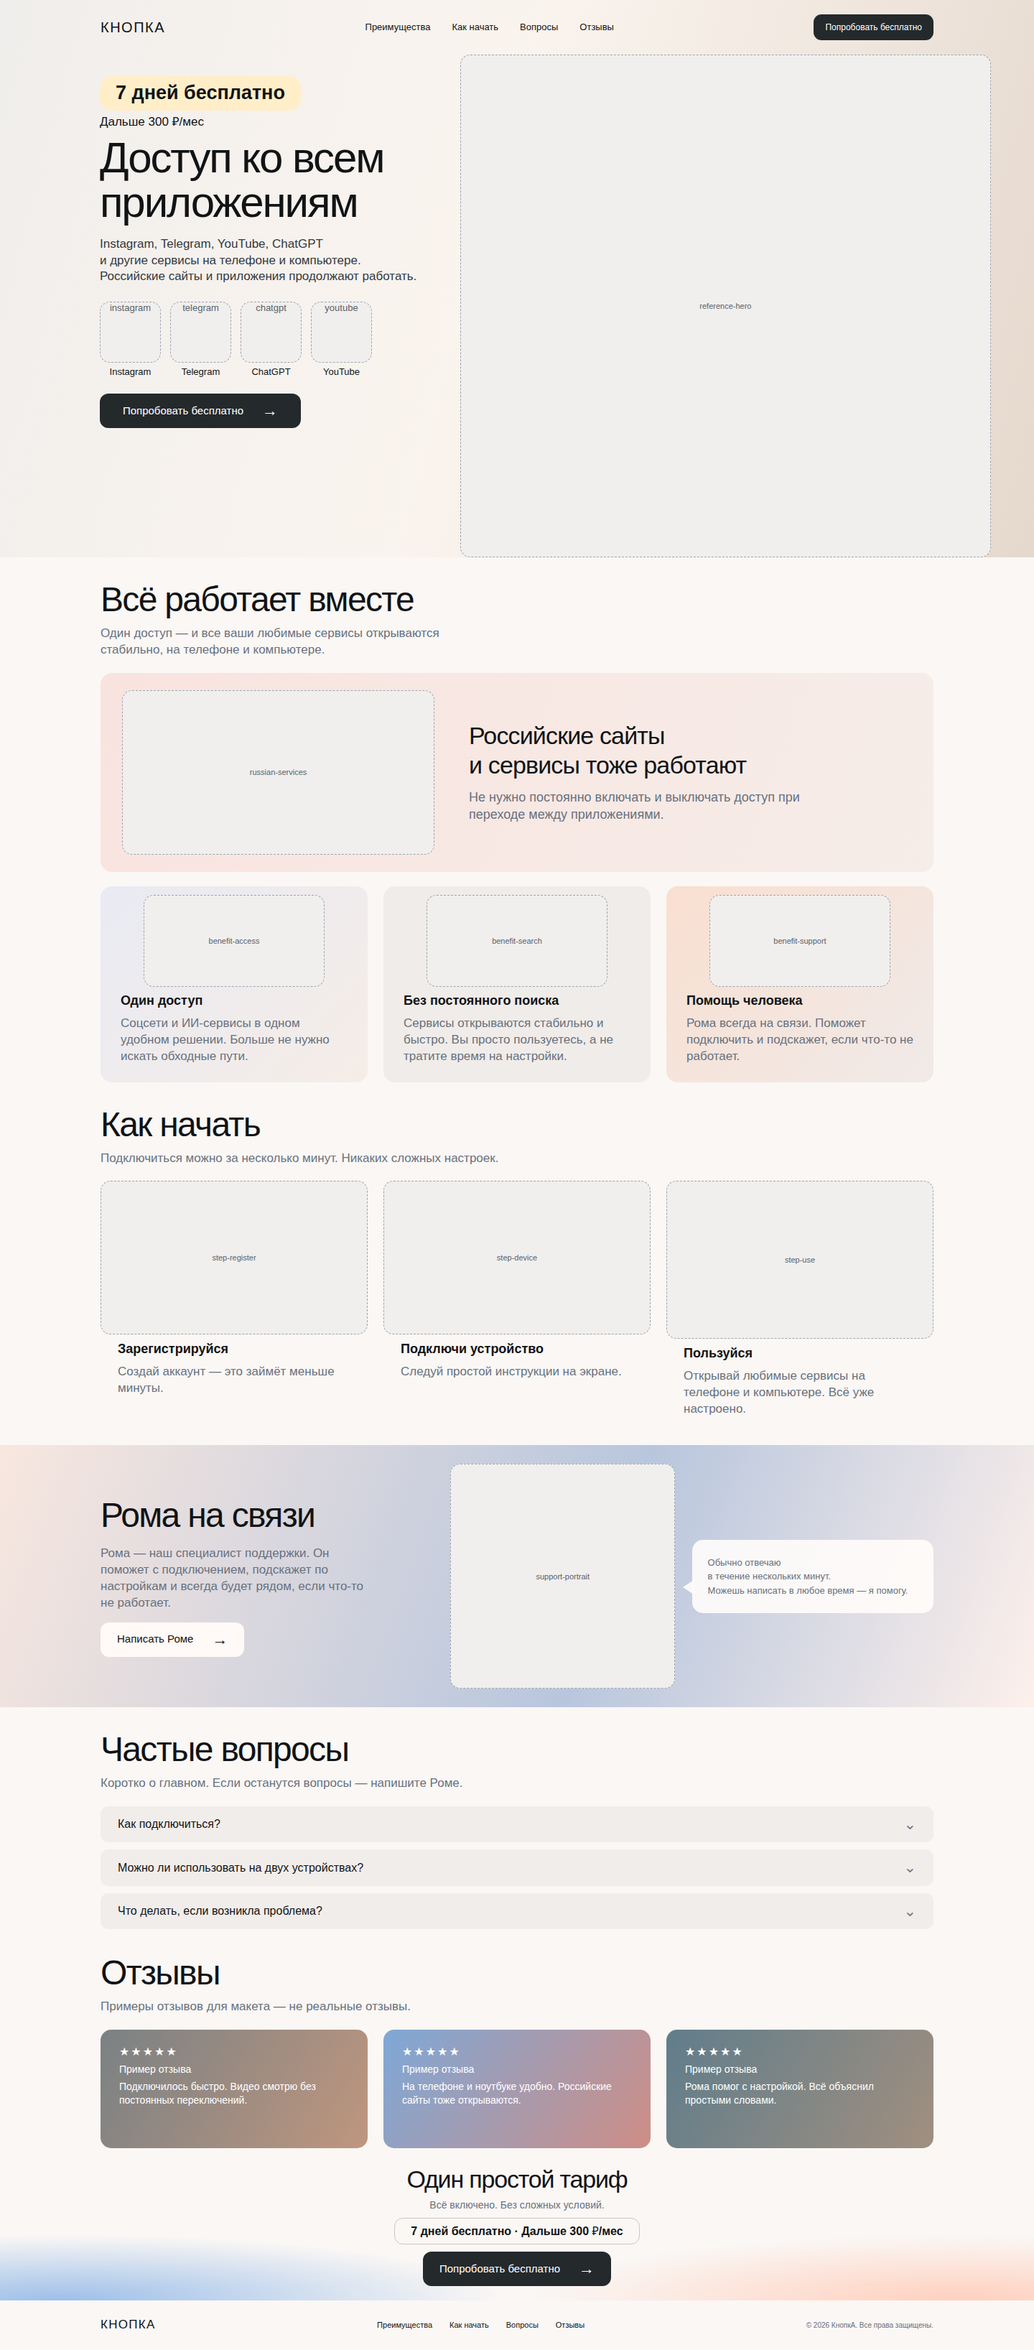
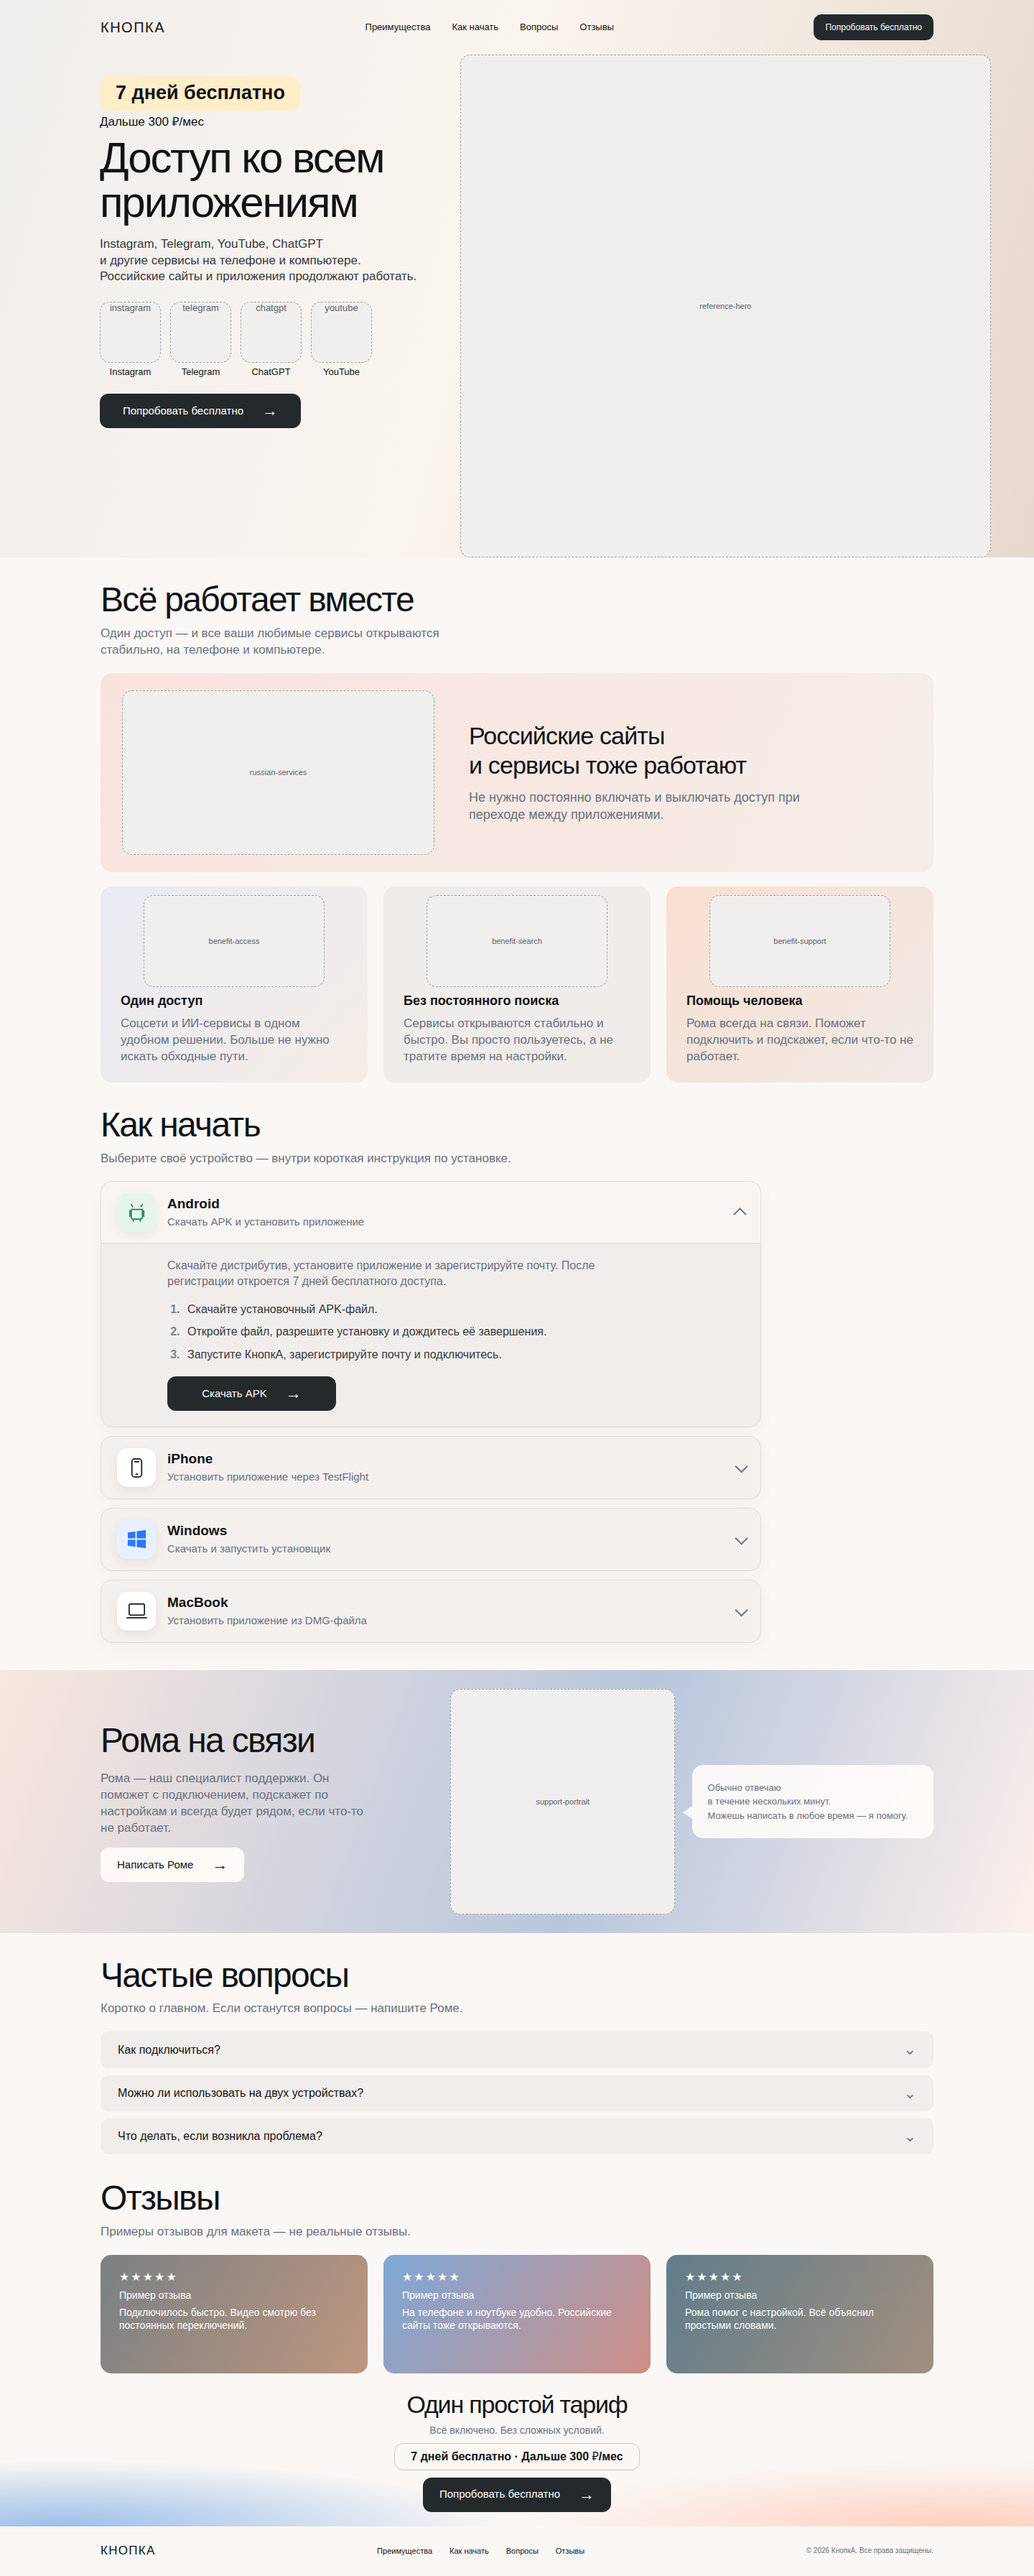
Redesign template setup section

diff --git a/Design2.0/version-001-mvp/site/template/index.html b/Design2.0/version-001-mvp/site/template/index.html
@@ -41,12 +41,82 @@
       </div>
     </section>
     <section class="section shell" id="start" aria-labelledby="start-title">
-      <h2 id="start-title">Как начать</h2><p class="section-intro">Подключиться можно за несколько минут. Никаких сложных настроек.</p>
-      <ol class="steps grid-three">
-        <li><span class="media-slot " role="img" aria-label="Место для изображения step-register" style="--slot-ratio:218/125">step-register</span><h3>Зарегистрируйся</h3><p>Создай аккаунт — это займёт меньше минуты.</p></li>
-        <li><span class="media-slot " role="img" aria-label="Место для изображения step-device" style="--slot-ratio:218/125">step-device</span><h3>Подключи устройство</h3><p>Следуй простой инструкции на экране.</p></li>
-        <li><span class="media-slot " role="img" aria-label="Место для изображения step-use" style="--slot-ratio:212/125">step-use</span><h3>Пользуйся</h3><p>Открывай любимые сервисы на телефоне и компьютере. Всё уже настроено.</p></li>
-      </ol>
+      <h2 id="start-title">Как начать</h2>
+      <p class="section-intro">Выберите своё устройство — внутри короткая инструкция по установке.</p>
+      <div class="platform-accordions">
+        <details class="platform-accordion platform-android">
+          <summary>
+            <span class="platform-mark" aria-hidden="true">
+              <svg viewBox="0 0 32 32"><path d="m10 8-2-3m14 3 2-3M8 12h16v11a3 3 0 0 1-3 3H11a3 3 0 0 1-3-3V12Zm-2 2v8m20-8v8M11 26v3m10-3v3"/></svg>
+            </span>
+            <span class="platform-heading"><strong>Android</strong><span>Скачать APK и установить приложение</span></span>
+          </summary>
+          <div class="platform-content">
+            <p>Скачайте дистрибутив, установите приложение и зарегистрируйте почту. После регистрации откроется 7 дней бесплатного доступа.</p>
+            <ol>
+              <li>Скачайте установочный APK-файл.</li>
+              <li>Откройте файл, разрешите установку и дождитесь её завершения.</li>
+              <li>Запустите КнопкА, зарегистрируйте почту и подключитесь.</li>
+            </ol>
+            <button type="button" class="button platform-download">Скачать APK <span aria-hidden="true">→</span></button>
+          </div>
+        </details>
+
+        <details class="platform-accordion platform-iphone">
+          <summary>
+            <span class="platform-mark" aria-hidden="true">
+              <svg viewBox="0 0 32 32"><rect x="9" y="3" width="14" height="26" rx="4"/><path d="M13 7h6M15 25h2"/></svg>
+            </span>
+            <span class="platform-heading"><strong>iPhone</strong><span>Установить приложение через TestFlight</span></span>
+          </summary>
+          <div class="platform-content">
+            <p>Установите КнопкА через TestFlight, зарегистрируйте почту и получите 7 дней бесплатного доступа.</p>
+            <ol>
+              <li>Откройте ссылку на установку. Если TestFlight ещё нет на iPhone, сначала установите его.</li>
+              <li>В TestFlight нажмите «Установить» и дождитесь завершения.</li>
+              <li>Откройте КнопкА, зарегистрируйте почту и подключитесь.</li>
+            </ol>
+            <button type="button" class="button platform-download">Открыть TestFlight <span aria-hidden="true">→</span></button>
+          </div>
+        </details>
+
+        <details class="platform-accordion platform-windows">
+          <summary>
+            <span class="platform-mark filled" aria-hidden="true">
+              <svg viewBox="0 0 32 32"><path d="M3 5.5 14 4v10H3V5.5ZM16 3.7 29 2v12H16V3.7ZM3 16h11v10L3 24.5V16Zm13 0h13v12l-13-1.7V16Z"/></svg>
+            </span>
+            <span class="platform-heading"><strong>Windows</strong><span>Скачать и запустить установщик</span></span>
+          </summary>
+          <div class="platform-content">
+            <p>Скачайте установщик, завершите установку и зарегистрируйтесь в приложении. Первые 7 дней — бесплатно.</p>
+            <ol>
+              <li>Скачайте и запустите установочный EXE-файл. Разрешите Windows его выполнение.</li>
+              <li>Завершите установку и откройте ярлык КнопкА на рабочем столе.</li>
+              <li>Зарегистрируйте почту и подключитесь.</li>
+            </ol>
+            <button type="button" class="button platform-download">Скачать для Windows <span aria-hidden="true">→</span></button>
+          </div>
+        </details>
+
+        <details class="platform-accordion platform-macbook">
+          <summary>
+            <span class="platform-mark" aria-hidden="true">
+              <svg viewBox="0 0 32 32"><rect x="5" y="5" width="22" height="16" rx="2"/><path d="M2 25h28M11 25h10"/></svg>
+            </span>
+            <span class="platform-heading"><strong>MacBook</strong><span>Установить приложение из DMG-файла</span></span>
+          </summary>
+          <div class="platform-content">
+            <p>Скачайте DMG-файл, перенесите КнопкА в «Программы» и зарегистрируйте почту, чтобы получить 7 дней бесплатного доступа.</p>
+            <ol>
+              <li>Скачайте и откройте установочный DMG-файл.</li>
+              <li>Перетащите КнопкА в папку «Программы».</li>
+              <li>Откройте приложение и разрешите macOS установку профиля и запуск расширения.</li>
+              <li>Зарегистрируйте почту и подключитесь.</li>
+            </ol>
+            <button type="button" class="button platform-download">Скачать для MacBook <span aria-hidden="true">→</span></button>
+          </div>
+        </details>
+      </div>
     </section>
     <section class="support" aria-labelledby="support-title"><div class="shell support-grid">
       <div class="support-copy"><h2 id="support-title">Рома на связи</h2><p>Рома — наш специалист поддержки. Он поможет с подключением, подскажет по настройкам и всегда будет рядом, если что-то не работает.</p><button type="button" class="button light">Написать Роме <span aria-hidden="true">→</span></button></div>

diff --git a/Design2.0/version-001-mvp/site/template/styles.css b/Design2.0/version-001-mvp/site/template/styles.css
@@ -2,5 +2,27 @@
 @import url('../source/styles.css');
 .media-slot{display:grid;place-items:center;aspect-ratio:var(--slot-ratio);max-width:100%;border:1px dashed #9da5b0;border-radius:14px;color:#59616c;background:#f0efed;font:11px/1.3 Arial,sans-serif;text-align:center;overflow-wrap:anywhere}
 .services .media-slot{width:100%}.russian-card>.media-slot{width:92%}.benefits .media-slot{width:80%;height:128px;margin:0 auto 9px}.steps .media-slot{width:100%}.media-slot.portrait{width:100%}.media-slot.hero-image{height:700px}
+.platform-accordions{display:grid;gap:12px;max-width:920px}
+.platform-accordion{margin:0;border:1px solid #e1dcda;border-radius:16px;background:#f1edeb;overflow:hidden;box-shadow:0 8px 22px rgb(50 43 39 / 4%)}
+.platform-accordion summary{min-height:86px;padding:14px 22px;justify-content:flex-start;background:#f4f0ee}
+.platform-accordion summary::after{content:"";width:11px;height:11px;margin-left:auto;border-right:2px solid #68717e;border-bottom:2px solid #68717e;transform:rotate(45deg) translateY(-3px);transition:transform .18s ease}
+.platform-accordion[open] summary::after{content:"";transform:rotate(225deg) translate(-2px,-2px)}
+.platform-accordion[open] summary{border-bottom:1px solid #e1dcda;background:#f8f5f3}
+.platform-mark{display:grid;place-items:center;flex:0 0 54px;width:54px;height:54px;border-radius:15px;background:#fff;color:#171a1d;box-shadow:0 5px 14px rgb(50 43 39 / 7%)}
+.platform-mark svg{width:31px;height:31px;fill:none;stroke:currentColor;stroke-width:1.8;stroke-linecap:round;stroke-linejoin:round}
+.platform-mark.filled svg{fill:currentColor;stroke:none}
+.platform-android .platform-mark{color:#208455;background:#e6f5ec}
+.platform-iphone .platform-mark,.platform-macbook .platform-mark{background:#fff}
+.platform-windows .platform-mark{color:#2878ff;background:#e8f0ff}
+.platform-heading{display:grid;gap:3px;min-width:0}
+.platform-heading strong{font-size:19px;line-height:1.2}
+.platform-heading span{color:var(--muted);font-size:15px}
+.platform-content{padding:20px 22px 22px 92px}
+.platform-content>p{max-width:690px;padding:0;font-size:16px}
+.platform-content ol{display:grid;gap:10px;margin:17px 0 20px;padding-left:22px;max-width:720px;color:#343940}
+.platform-content li{padding-left:6px}
+.platform-content li::marker{font-weight:700;color:#7b838d}
+.platform-download{min-width:235px}
 @media(min-width:701px) and (max-width:1000px){.media-slot.hero-image{height:460px}.benefits .media-slot{height:85px}}
-@media(max-width:700px){.media-slot.hero-image{height:auto;max-height:450px;width:100%}.russian-card>.media-slot{width:250px;margin:auto}.benefits .media-slot{width:140px;height:82px;margin:0 0 14px}.steps .media-slot{max-height:205px}}
+@media(max-width:700px){.media-slot.hero-image{height:auto;max-height:450px;width:100%}.russian-card>.media-slot{width:250px;margin:auto}.benefits .media-slot{width:140px;height:82px;margin:0 0 14px}.steps .media-slot{max-height:205px}.platform-accordions{gap:10px}.platform-accordion summary{min-height:76px;padding:11px 14px;gap:12px}.platform-mark{flex-basis:48px;width:48px;height:48px;border-radius:13px}.platform-mark svg{width:28px;height:28px}.platform-heading strong{font-size:17px}.platform-heading span{font-size:13px;line-height:1.3}.platform-content{padding:17px 16px 19px}.platform-content>p{padding:0;font-size:15px}.platform-content ol{gap:9px;margin:15px 0 18px;padding-left:21px;font-size:15px}.platform-download{width:100%;min-width:0}}
+@media(prefers-reduced-motion:reduce){.platform-accordion summary::after{transition:none}}

diff --git a/Design2.0/version-001-mvp/site/README.md b/Design2.0/version-001-mvp/site/README.md
@@ -34,6 +34,12 @@ Instagram / Telegram / ChatGPT / YouTube, чёрные CTA, меню и заго
 явными подписанными placeholders. Проверочные скриншоты сохраняются в
 `renders/` скриптом `render-check.mjs`.
 
+Исключение для текущей итерации: секция `template/#start` используется как
+изолированный прототип нового сценария «Как начать». Вместо трёх общих шагов
+в ней четыре нативных accordion-блока — Android, iPhone, Windows и MacBook —
+с инструкциями, адаптированными из Telegram Mini App. `sync-template.mjs`
+сохраняет этот блок при последующей синхронизации; `source/` пока не меняется.
+
 Генеративные PNG остаются визуальными макетами и не используются как текстовый
 слой страницы. Демонстрационные отзывы по-прежнему явно обозначены как
 нереальные.
